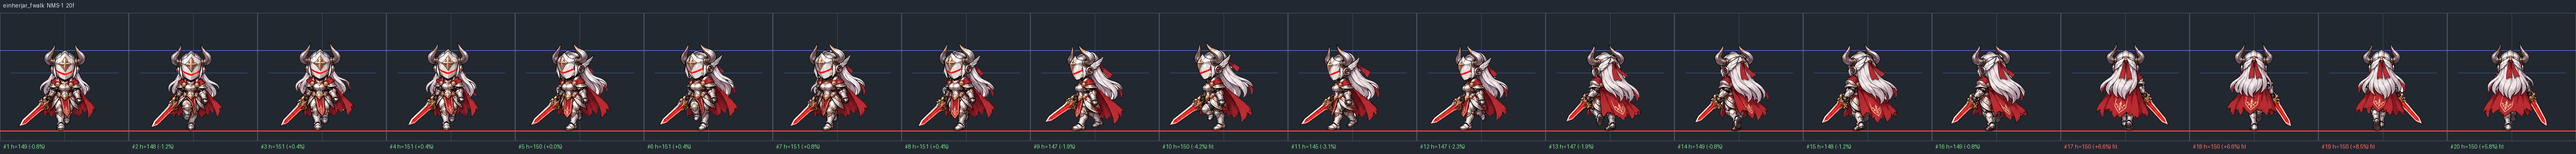
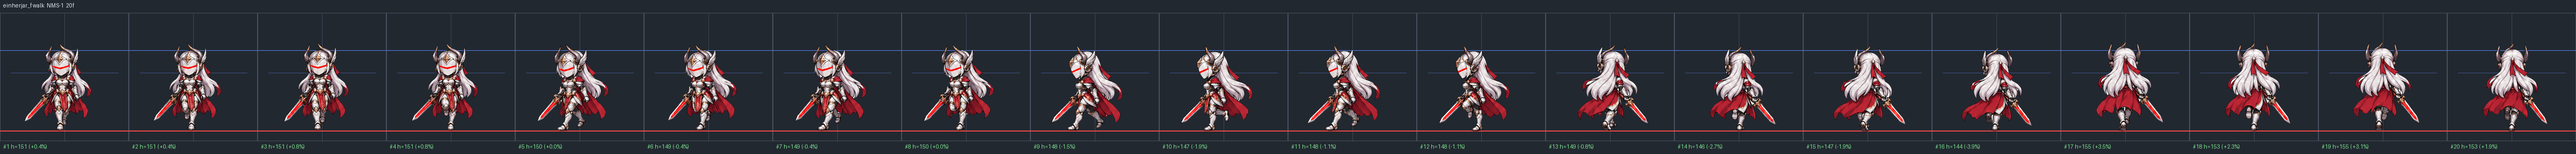
Einherjar: redrawn walk (m/f, walk-rig prompt) and male attack
All frames checked for the sword; installed at the existing per-character
scales.

Claude-Session: https://claude.ai/code/session_017QrEU6PVR1NvrPzc5r5uQv

diff --git a/index.html b/index.html
@@ -13,8 +13,8 @@
   <meta name="description" content="IRON VALHALLA — เกม RPG หุ่นยนต์แอนดรอยด์ในโลกตำนานนอร์ส เล่นบนเบราว์เซอร์">
   <link rel="preconnect" href="https://fonts.googleapis.com">
   <link href="https://fonts.googleapis.com/css2?family=Kanit:wght@400;500;600;700;800&family=Noto+Sans+Thai:wght@400;500;600;700&family=IBM+Plex+Sans+Thai:wght@400;500;600&family=IBM+Plex+Mono:wght@500;600&display=swap" rel="stylesheet">
-  <link rel="stylesheet" href="css/style.css?v=202610020611">
-  <link rel="stylesheet" href="css/visor.css?v=202610020611">
+  <link rel="stylesheet" href="css/style.css?v=202610020710">
+  <link rel="stylesheet" href="css/visor.css?v=202610020710">
 </head>
 <body class="visor">
   <canvas id="cv"></canvas>
@@ -284,48 +284,48 @@
   </div>
 
   <script src="https://cdn.jsdelivr.net/npm/@supabase/supabase-js@2.45.4/dist/umd/supabase.min.js"></script>
-  <script src="js/i18n.js?v=202610020611"></script>
-  <script src="js/online.config.js?v=202610020611"></script>
-  <script src="js/data.js?v=202610020611"></script>
-  <script src="js/art.js?v=202610020611"></script>
-  <script src="js/util.js?v=202610020611"></script>
-  <script src="js/maps.js?v=202610020611"></script>
-  <script src="js/flora.js?v=202610020611"></script>
-  <script src="js/sprites.js?v=202610020611"></script>
-  <script src="js/rig.js?v=202610020611"></script>
-  <script src="js/pose.js?v=202610020611"></script>
-  <script src="js/anim.js?v=202610020611"></script>
-  <script src="js/paperdoll_data.js?v=202610020611"></script>
-  <script src="js/paperdoll_fix.js?v=202610020611"></script>
-  <script src="js/paperdoll_depth.js?v=202610020611"></script>
-  <script src="js/paperdoll.js?v=202610020611"></script>
-  <script src="js/weapontrail.js?v=202610020611"></script>
-  <script src="js/sound.js?v=202610020611"></script>
-  <script src="js/music.js?v=202610020611"></script>
-  <script src="js/title.js?v=202610020611"></script>
-  <script src="js/passive.js?v=202610020611"></script>
-  <script src="js/game.js?v=202610020611"></script>
-  <script src="js/npc.js?v=202610020611"></script>
-  <script src="js/bot.js?v=202610020611"></script>
-  <script src="js/online.js?v=202610020611"></script>
-  <script src="js/party.js?v=202610020611"></script>
-  <script src="js/trade.js?v=202610020611"></script>
-  <script src="js/fx2.js?v=202610020611"></script>
-  <script src="js/juice.js?v=202610020611"></script>
-  <script src="js/render.js?v=202610020611"></script>
-  <script src="js/ui.js?v=202610020611"></script>
-  <script src="js/pad.js?v=202610020611"></script>
-  <script src="js/nav.js?v=202610020611"></script>
-  <script src="js/quest.js?v=202610020611"></script>
-  <script src="js/daily.js?v=202610020611"></script>
-  <script src="js/story.js?v=202610020611"></script>
-  <script src="js/content_ch6.js?v=202610020611"></script>
-  <script src="js/loot.js?v=202610020611"></script>
-  <script src="js/balance.js?v=202610020611"></script>
-  <script src="js/worldboss.js?v=202610020611"></script>
-  <script src="js/classbook.js?v=202610020611"></script>
-  <script src="js/gacha.js?v=202610020611"></script>
-  <script src="js/emote.js?v=202610020611"></script>
-  <script src="js/main.js?v=202610020611"></script>
+  <script src="js/i18n.js?v=202610020710"></script>
+  <script src="js/online.config.js?v=202610020710"></script>
+  <script src="js/data.js?v=202610020710"></script>
+  <script src="js/art.js?v=202610020710"></script>
+  <script src="js/util.js?v=202610020710"></script>
+  <script src="js/maps.js?v=202610020710"></script>
+  <script src="js/flora.js?v=202610020710"></script>
+  <script src="js/sprites.js?v=202610020710"></script>
+  <script src="js/rig.js?v=202610020710"></script>
+  <script src="js/pose.js?v=202610020710"></script>
+  <script src="js/anim.js?v=202610020710"></script>
+  <script src="js/paperdoll_data.js?v=202610020710"></script>
+  <script src="js/paperdoll_fix.js?v=202610020710"></script>
+  <script src="js/paperdoll_depth.js?v=202610020710"></script>
+  <script src="js/paperdoll.js?v=202610020710"></script>
+  <script src="js/weapontrail.js?v=202610020710"></script>
+  <script src="js/sound.js?v=202610020710"></script>
+  <script src="js/music.js?v=202610020710"></script>
+  <script src="js/title.js?v=202610020710"></script>
+  <script src="js/passive.js?v=202610020710"></script>
+  <script src="js/game.js?v=202610020710"></script>
+  <script src="js/npc.js?v=202610020710"></script>
+  <script src="js/bot.js?v=202610020710"></script>
+  <script src="js/online.js?v=202610020710"></script>
+  <script src="js/party.js?v=202610020710"></script>
+  <script src="js/trade.js?v=202610020710"></script>
+  <script src="js/fx2.js?v=202610020710"></script>
+  <script src="js/juice.js?v=202610020710"></script>
+  <script src="js/render.js?v=202610020710"></script>
+  <script src="js/ui.js?v=202610020710"></script>
+  <script src="js/pad.js?v=202610020710"></script>
+  <script src="js/nav.js?v=202610020710"></script>
+  <script src="js/quest.js?v=202610020710"></script>
+  <script src="js/daily.js?v=202610020710"></script>
+  <script src="js/story.js?v=202610020710"></script>
+  <script src="js/content_ch6.js?v=202610020710"></script>
+  <script src="js/loot.js?v=202610020710"></script>
+  <script src="js/balance.js?v=202610020710"></script>
+  <script src="js/worldboss.js?v=202610020710"></script>
+  <script src="js/classbook.js?v=202610020710"></script>
+  <script src="js/gacha.js?v=202610020710"></script>
+  <script src="js/emote.js?v=202610020710"></script>
+  <script src="js/main.js?v=202610020710"></script>
 </body>
 </html>
